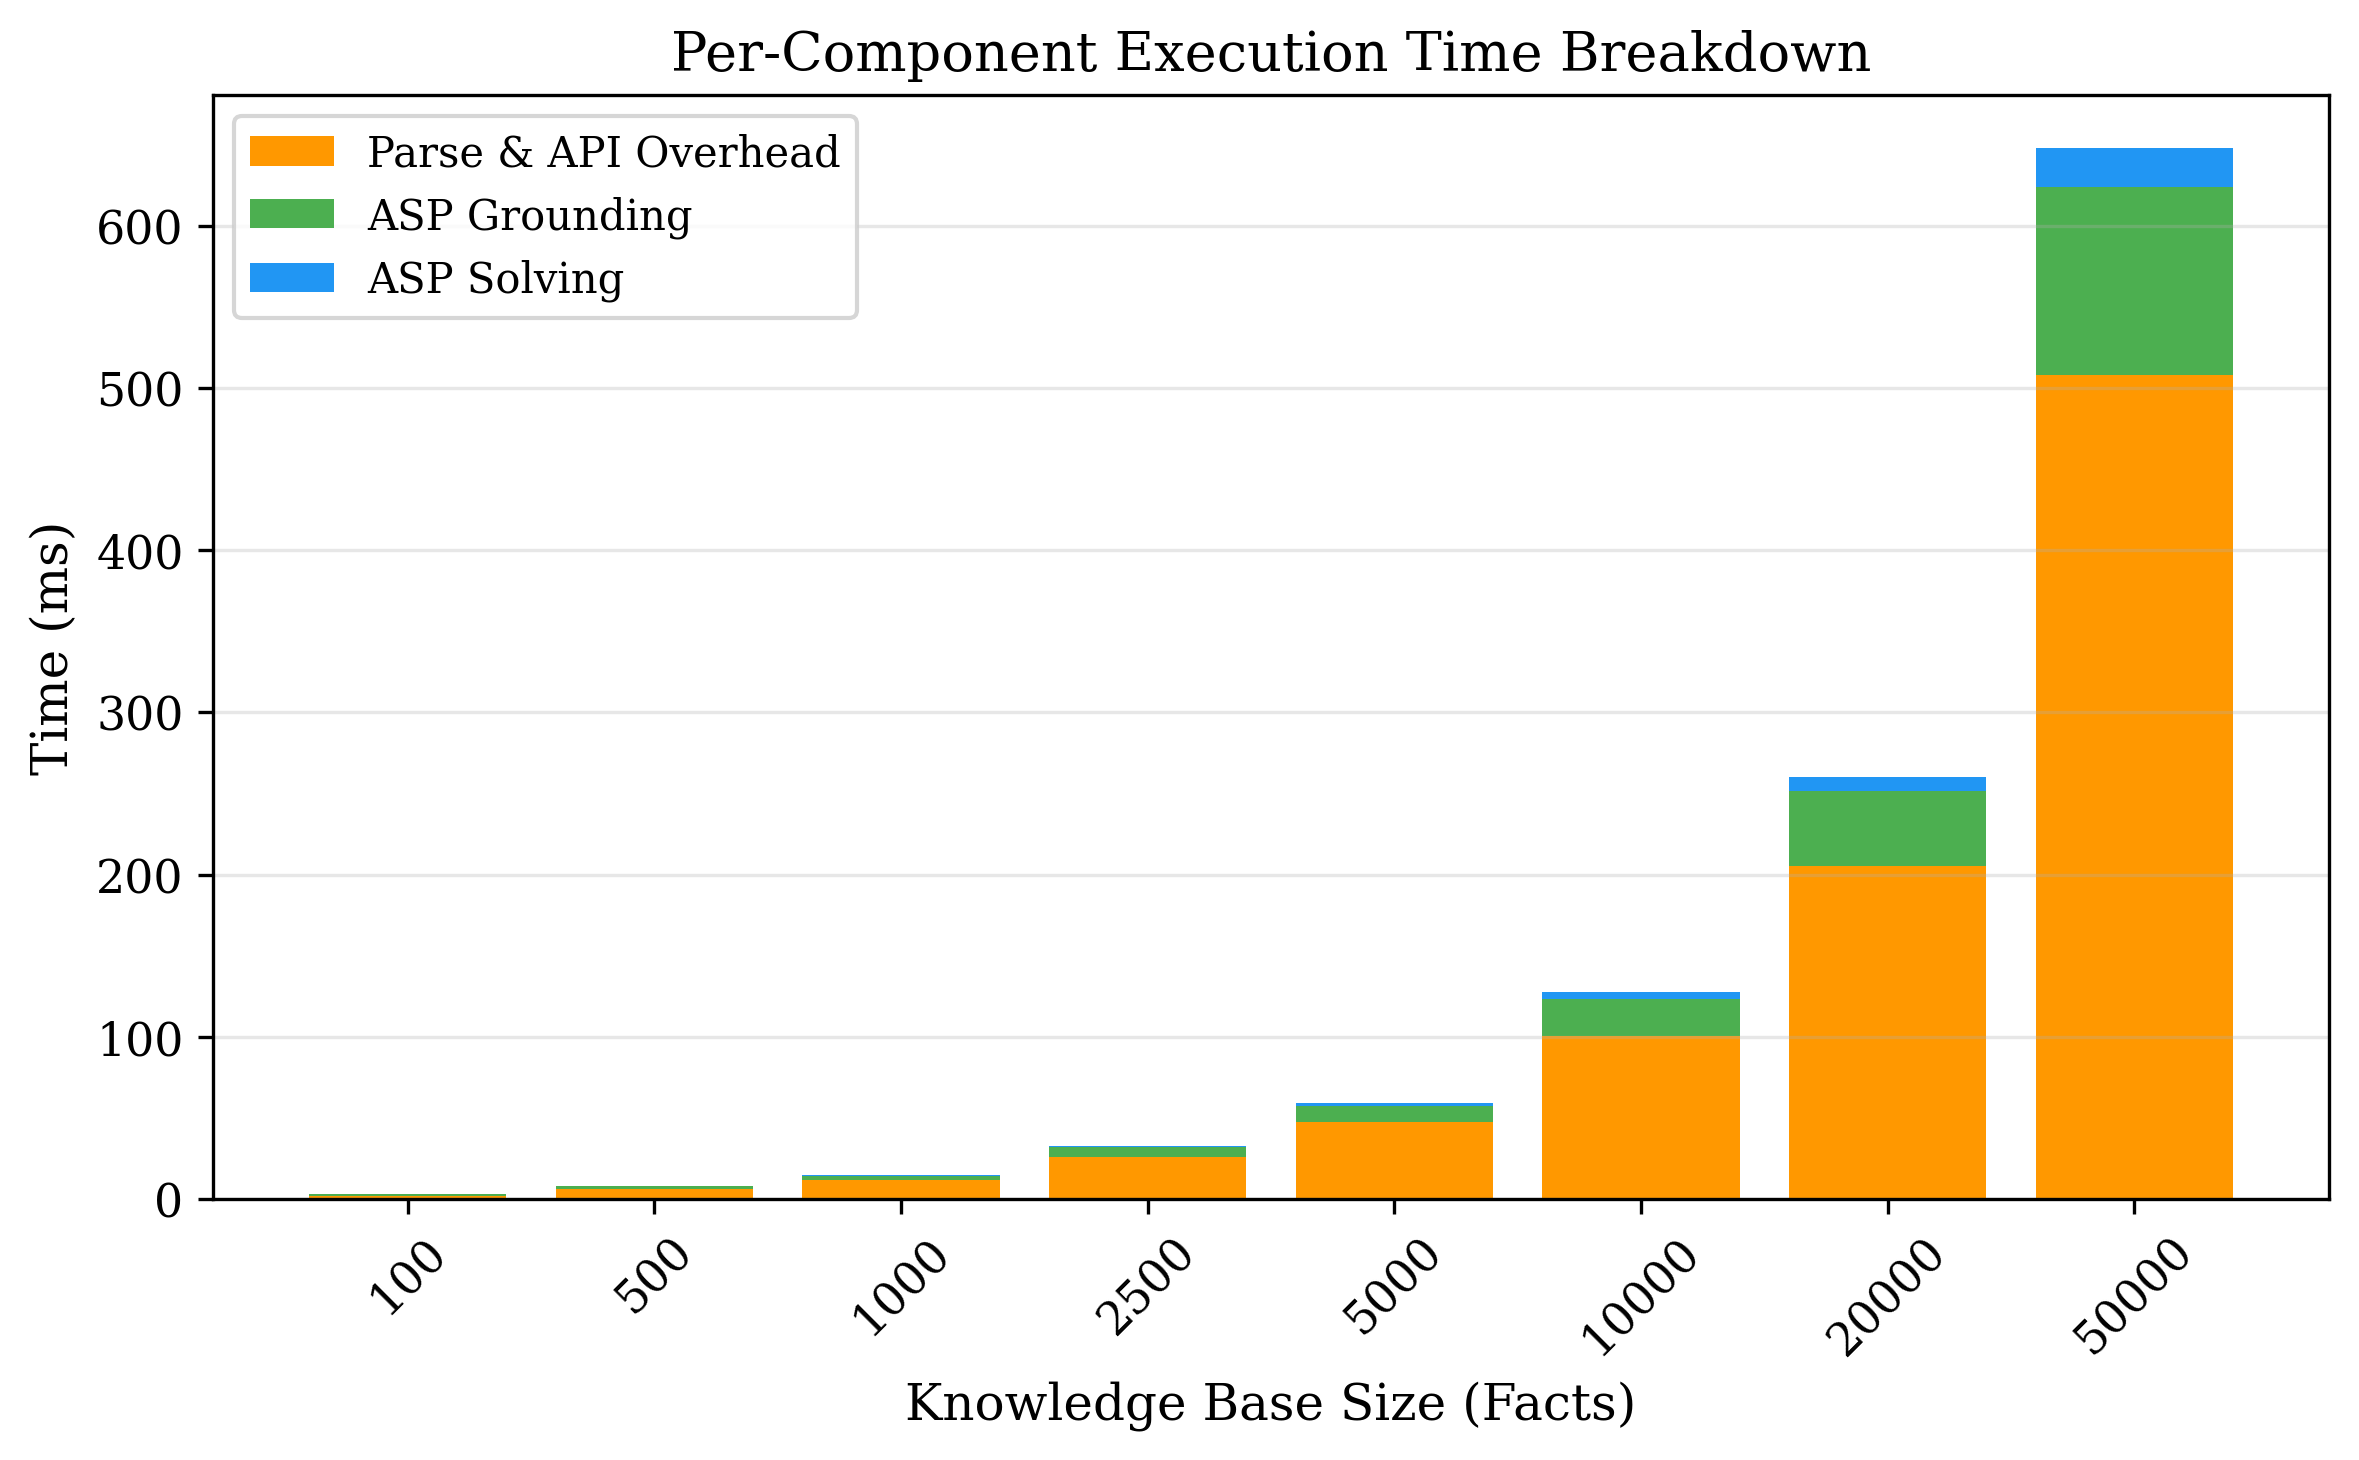
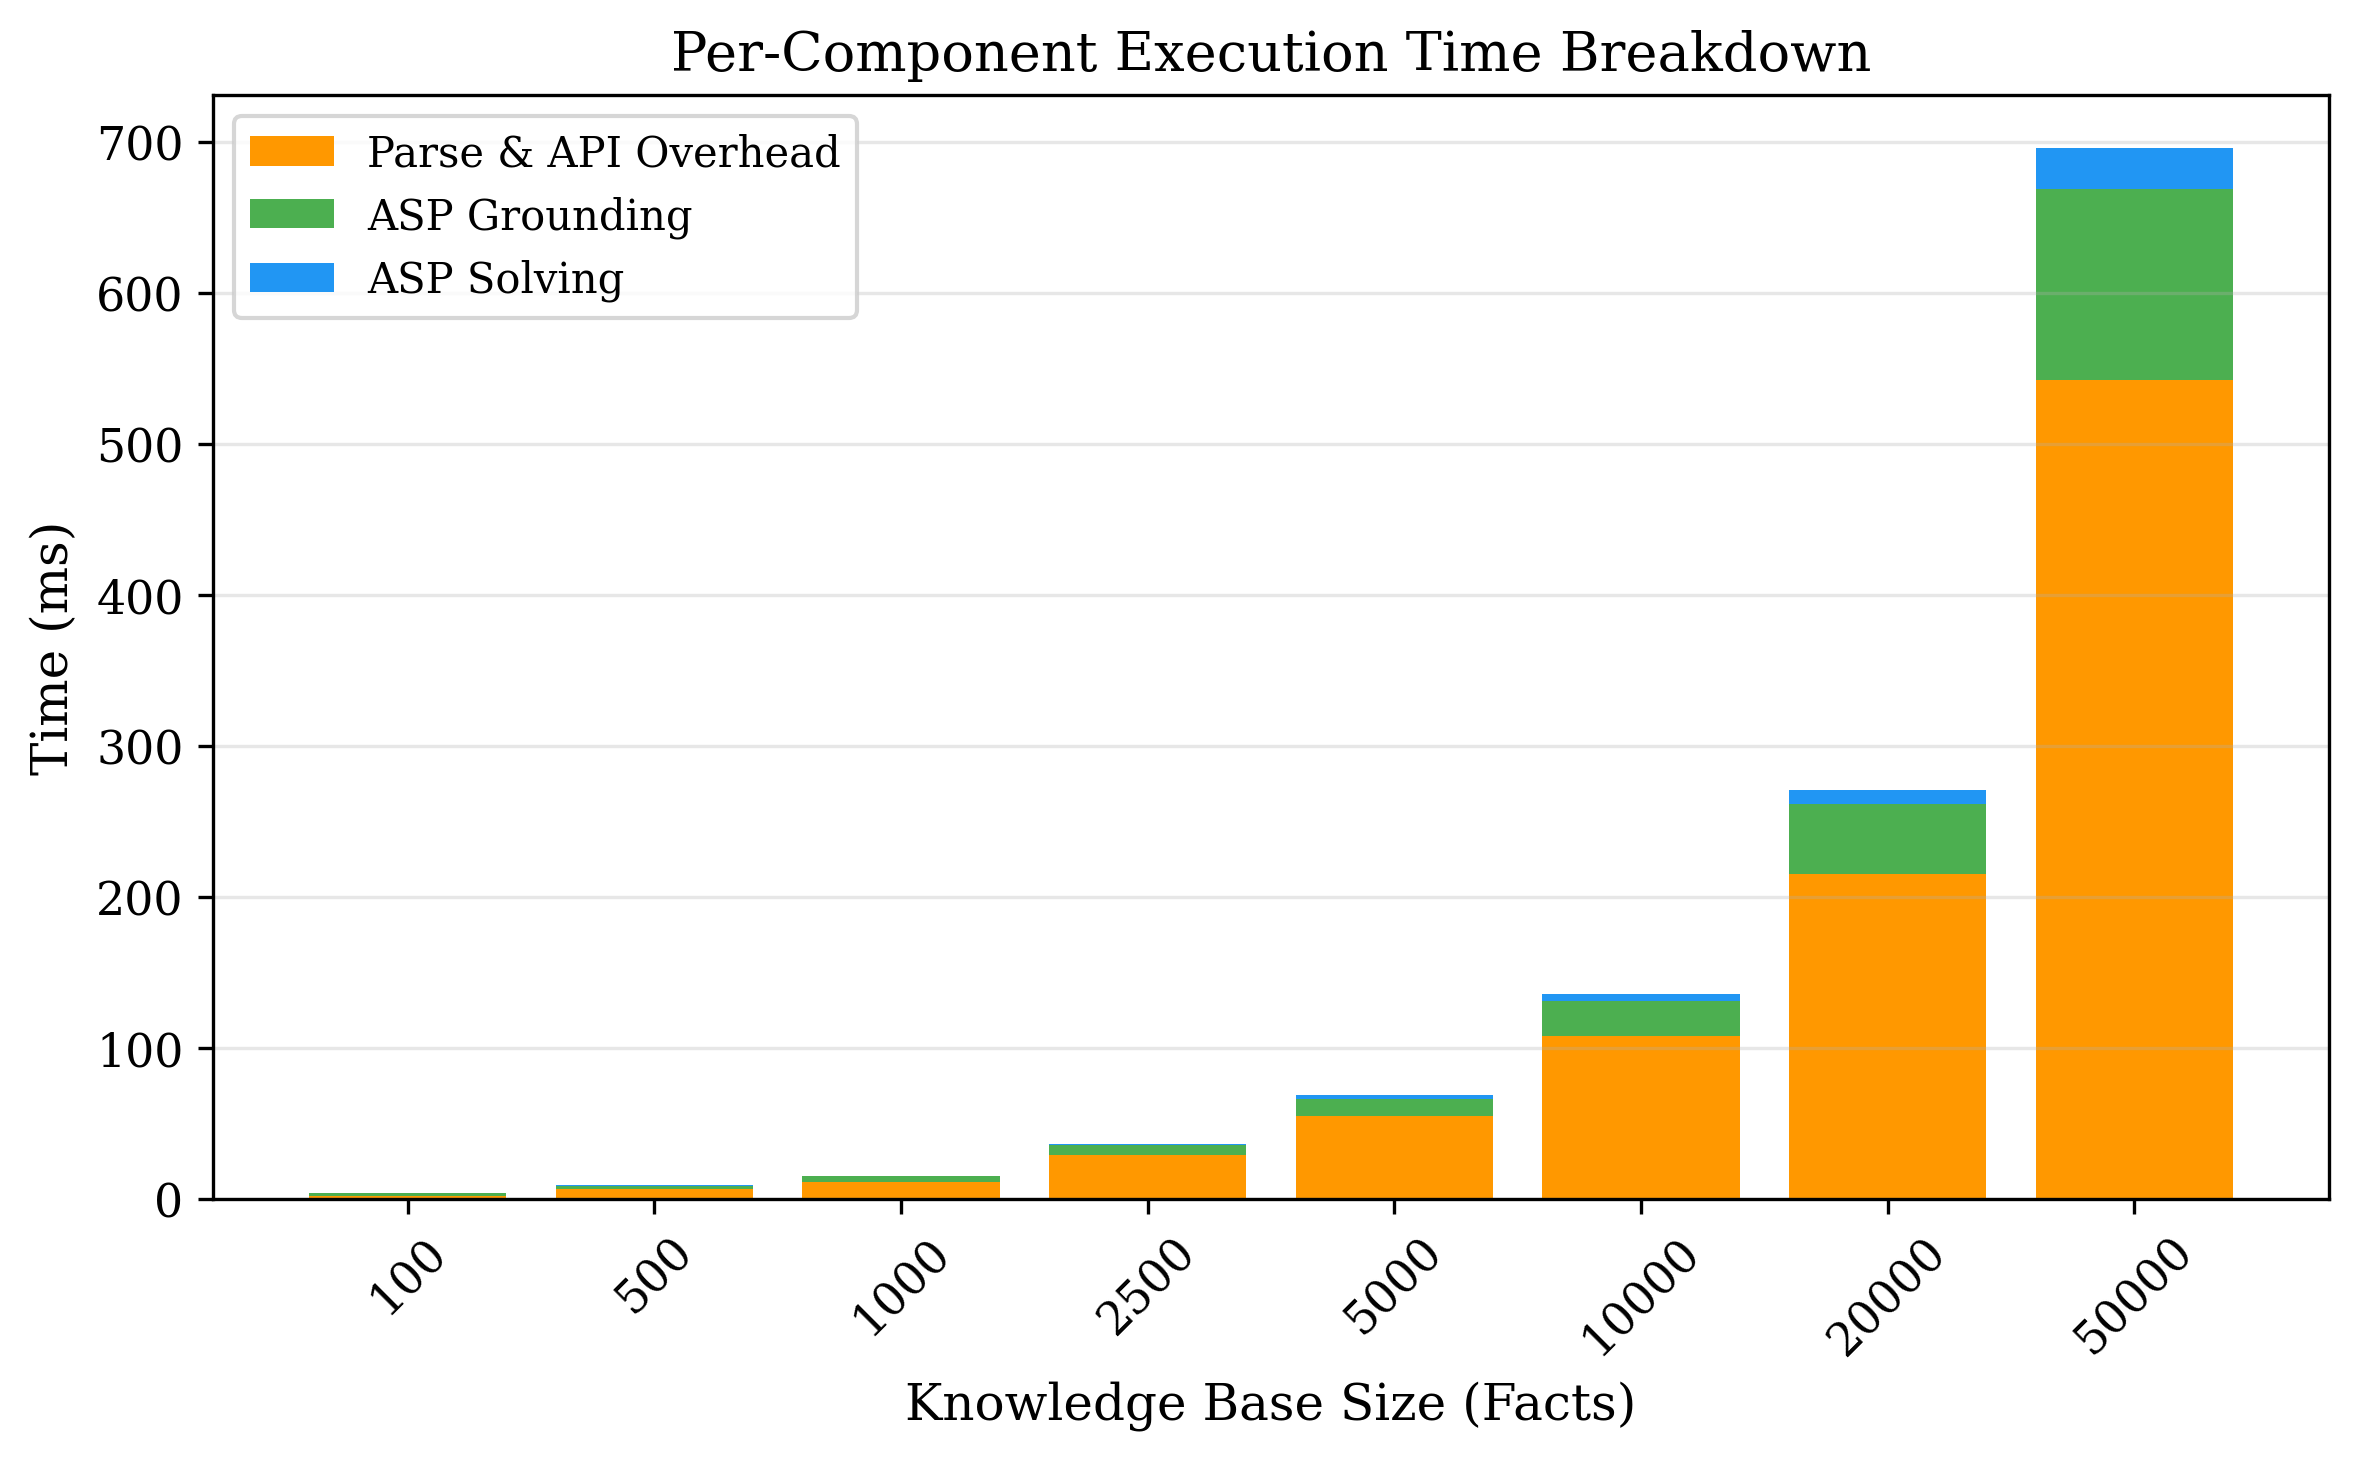
experiment updated

diff --git a/experiment_enhanced.py b/experiment_enhanced.py
@@ -63,7 +63,7 @@ technique(lena, phishing, high_severity).
 technique(lena, lateral_movement, high_severity).
 technique(lena, credential_dump, high_severity).
 
-persona(bob). intention(bob, benevolent). role(bob, employee).
+persona(bob). intention(bob, benevolent). role(bob, admin).
 technique(bob, login, neutral).
 technique(bob, powershell, high_severity).
 technique(bob, file_access, neutral).
